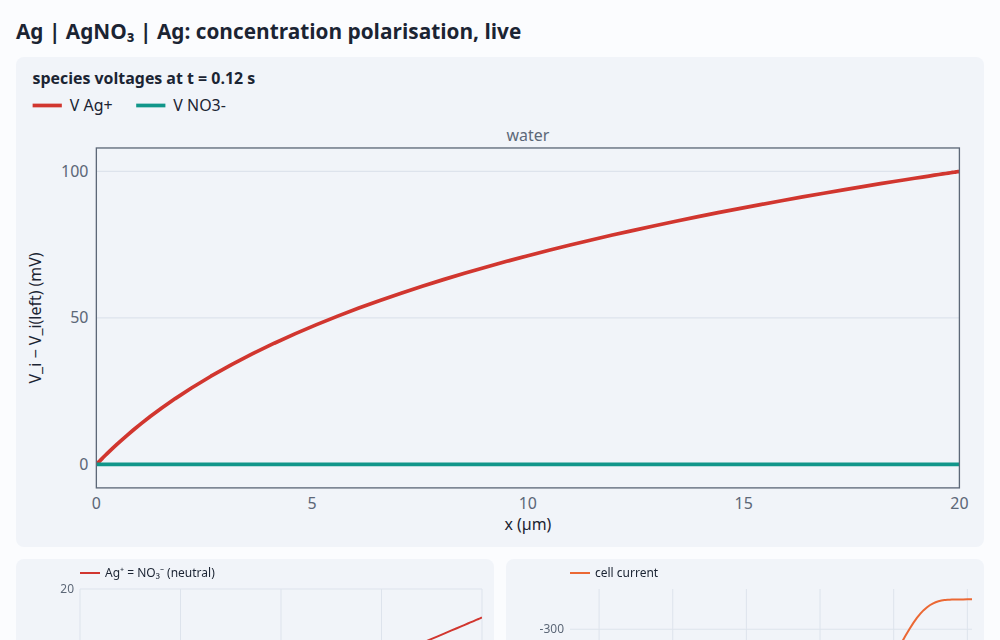
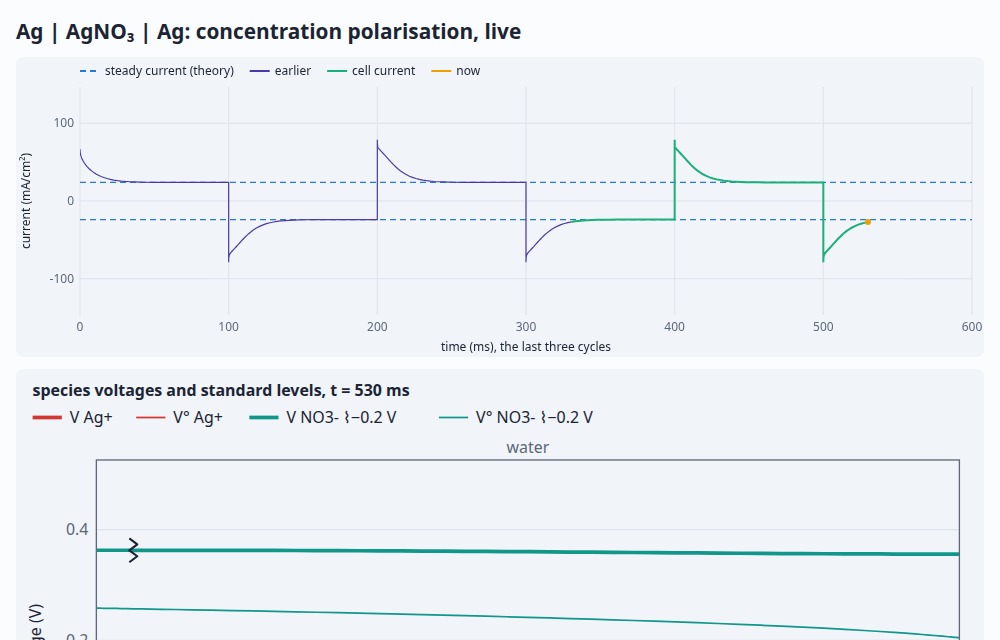
Concentration polarisation demo: a square wave that runs on, current and impedance against theory, an ionic diagram

diff --git a/demos/cell.html b/demos/cell.html
@@ -9,85 +9,150 @@
 <body>
 <main>
   <h1>Ag | AgNO₃ | Ag: concentration polarisation, live</h1>
-  <p>10 mM silver nitrate between two silver electrodes, 20 µm apart, as a strictly neutral electrolyte.
-    Ag⁺ is plated and stripped at the electrodes; NO₃⁻ is blocked. Step the cell voltage and watch the
-    salt pile up at one electrode and deplete at the other, and the current relax toward its steady value.
-    In the diagram, Ag⁺'s species voltage drops from one electrode to the other, while NO₃⁻'s, carrying no
-    current once it's settled, goes level. The impedance spectrum at rest is the bulk resistance plus a
-    finite-length Warburg arc from salt diffusion.</p>
+  <p>10 mM silver nitrate between two silver electrodes 20 µm apart, as a strictly neutral electrolyte, driven
+    by a square wave of cell voltage. Ag⁺ is plated at one electrode and stripped at the other; NO₃⁻ can't
+    cross either. So each reversal starts with a burst of current limited only by the solution's resistance;
+    then salt piles up at one electrode and depletes at the other, and the current sags toward its steady
+    value, (4FD₊c/L) tanh(FV/4RT) (dashed), which can never exceed the limiting current 4FD₊c/L. Half-periods
+    shorter than the diffusion time, (L/2)²/D ≈ 60 ms here, reverse the salt before it has piled up, and
+    the current stays near ohmic.</p>
+  <p>The diagram is ion by ion: each species' voltage V<sub>i</sub> = μ̄<sub>i</sub>/(z<sub>i</sub>F) (thick)
+    and standard level V°<sub>i</sub> (thin). Ag⁺'s voltage slopes from one electrode's to the other's, driving the current. NO₃⁻'s
+    is level once it settles, since nitrate carries no current; meanwhile its standard level is sloped, and
+    that slope is the salt's concentration gradient. The impedance spectrum at rest is the same physics in
+    frequency: the bulk resistance, then a finite-length Warburg arc from salt diffusion (theory dashed).</p>
   <div class="controls">
-    <label>cell voltage <input id="V" type="range" min="-0.2" max="0.2" step="0.01" value="0.1"><output id="Vout"></output></label>
-    <button id="step">apply step</button>
+    <label>cell voltage ± <input id="V" type="range" min="0.01" max="0.2" step="0.01" value="0.1"><output id="Vout"></output></label>
+    <label>half-period <input id="half" type="range" min="-3" max="0" step="0.25" value="-1"><output id="halfOut"></output></label>
+    <label>playback <select id="pace">
+      <option value="20">slow (20 s a cycle)</option>
+      <option value="6" selected>6 s a cycle</option>
+      <option value="0">as fast as it solves</option>
+    </select></label>
+    <button id="run">restart</button>
     <span class="readout" id="status"></span>
   </div>
   <div class="grid">
+    <canvas class="wide" id="current"></canvas>
     <div class="levels wide" id="levels"></div>
-    <canvas id="profile"></canvas>
-    <canvas id="current"></canvas>
-    <canvas id="nyquist"></canvas>
+    <div class="levels wide" id="conc"></div>
+    <canvas class="wide" id="nyquist"></canvas>
   </div>
 </main>
 <script type="module">
-import { Device } from '../src/index.js';
-import { build, layer, aqueous } from '../src/kit.js';
+import { Device, FARADAY, GAS_CONSTANT } from '../src/index.js';
+import { build, layer, aqueous, traces, IONS } from '../src/kit.js';
+import { levelChart } from '../src/plot.js';
 import { chart, colors } from './plot.js';
-import { relativeLevels, showCode, fromQuery, speciesColor } from './common.js';
+import { profiles, showCode, fromQuery } from './common.js';
 
 // A reversible silver electrode: a contact whose terminal species is the Ag⁺ it exchanges, so its
 // voltage is the electrode potential. NO₃⁻ can't cross it.
 const silver = (V) => ({ V, terminal: 'Ag+', species: { 'Ag+': 'equilibrium', 'NO3-': 'blocked' }, phi: 'bulk' });
+const L = 20e-6, c0 = 10; // m, mol/m³
 const def = build({
   library: [aqueous(['Ag+', 'NO3-'], { epsr: 0 })], // strictly neutral: no double layers
-  stack: [silver(0), layer('water', 20e-6, { c0: { 'NO3-': 10 } }), silver(0)], // Ag⁺ follows the electrodes
+  stack: [silver(0), layer('water', L, { c0: { 'NO3-': c0 } }), silver(0)], // Ag⁺ follows the electrodes
   grid: { hmin: 10e-9, hmax: 0.5e-6 }, // graded: fine at the electrodes, where Ag⁺ depletes
 });
 
-const slider = document.getElementById('V');
-fromQuery(slider);
-const show = () => (document.getElementById('Vout').textContent = `${(+slider.value).toFixed(2)} V`);
-slider.addEventListener('input', show);
-show();
+// Theory for a binary salt between electrodes reversible to its cation: the bulk resistance, the
+// steady current, and the finite-length Warburg impedance of salt diffusion.
+const RT = GAS_CONSTANT * 298.15, F = FARADAY, Dp = IONS['Ag+'].D, Dm = IONS['NO3-'].D;
+const Rb = (RT * L) / (F * F * (Dp + Dm) * c0); // Ω·m²
+const Rd = (RT * L * Dm) / (F * F * Dp * (Dp + Dm) * c0); // the diffusion arc's width
+const tauD = (L / 2) ** 2 / ((2 * Dp * Dm) / (Dp + Dm)); // s
+const steady = (V) => ((4 * F * Dp * c0) / L) * Math.tanh((F * V) / (4 * RT)); // A/m²
+const warburg = (f) => {
+  // Rb + Rd tanh(√(jωτ))/√(jωτ), with √(jωτ) = s(1 + j)
+  const s = Math.sqrt(Math.PI * f * tauD), den = Math.cosh(2 * s) + Math.cos(2 * s);
+  const tr = Math.sinh(2 * s) / den, ti = Math.sin(2 * s) / den;
+  return { re: Rb + (Rd * (tr + ti)) / (2 * s), im: (Rd * (ti - tr)) / (2 * s) };
+};
 
-// The impedance spectrum at rest, 10 mHz to 10 kHz.
-const freqs = Array.from({ length: 41 }, (_, k) => 10 ** (-2 + k * 0.15));
+// The impedance spectrum at rest, 10 mHz to 100 kHz, against theory.
+const freqs = Array.from({ length: 49 }, (_, k) => 10 ** (-2 + k * 0.15));
 const Z = new Device(def).impedance(freqs).Z;
-const ohmCm2 = (a) => Array.from(a, (v) => v * 1e4);
+const ohmCm2 = (v) => v * 1e4;
+const theory = freqs.map(warburg);
 chart(document.getElementById('nyquist'), {
-  xlabel: 'Z′ (Ω·cm²)', ylabel: '−Z″ (Ω·cm²)', xlim: [0, 3.6], ylim: [0, 1.2],
-  series: [{ x: ohmCm2(Z.re), y: ohmCm2(Z.im).map((v) => -v), color: colors[3], marker: true, label: 'impedance, 10 mHz – 10 kHz' }],
+  xlabel: 'Z′ (Ω·cm²)', ylabel: '−Z″ (Ω·cm²)', xlim: [0, 3.6], ylim: [0, 1],
+  series: [
+    { x: theory.map((z) => ohmCm2(z.re)), y: theory.map((z) => -ohmCm2(z.im)), color: colors[6], dash: [6, 4], label: 'theory: R_b + finite-length Warburg' },
+    { x: Array.from(Z.re, ohmCm2), y: Array.from(Z.im, (v) => -ohmCm2(v)), color: colors[2], marker: true, width: 0, label: 'impedance at rest, 10 mHz – 100 kHz' },
+  ],
 });
 
-// The step: from rest, then advance in time a little further each animation frame.
+const amp = document.getElementById('V'), halfS = document.getElementById('half');
+fromQuery(amp);
+fromQuery(halfS);
+const half = () => 10 ** +halfS.value; // s
+
 let dev, trace, running = false;
-const tEnd = 0.5, ahead = +new URLSearchParams(location.search).get('t'); // ?t=… jumps ahead
 function start() {
+  // From rest, a square wave: +V for a half-period, then −V, and so on.
+  const V = +amp.value, h = half();
   dev = new Device(def);
   dev.solve();
-  dev.set({ contacts: { right: { V: +slider.value } } });
-  trace = { t: [], I: [] };
-  if (ahead > 0) record(dev.advance(ahead));
+  dev.set({ contacts: { right: { V: { t: [0, h, h, 2 * h], values: [V, V, -V, -V], repeat: true } } } });
+  // It runs on, cycle after cycle (?t=… stops it there, for a screenshot), keeping the last three.
+  trace = { t: [], I: [], range: [Infinity, -Infinity], shift: Math.round((-0.35 + 1.5 * V) * 20) / 20, period: 2 * h, stop: +new URLSearchParams(location.search).get('t') || Infinity };
+  document.getElementById('Vout').textContent = `${V.toFixed(2)} V`;
+  document.getElementById('halfOut').textContent = h < 0.1 ? `${(h * 1000).toPrecision(2)} ms` : `${h.toPrecision(2)} s`;
+  lastFrame = undefined;
   if (!running) requestAnimationFrame(frame);
   running = true;
 }
-const record = (s) => s.trace.t.forEach((t, k) => (trace.t.push(t), trace.I.push(s.trace.current[k])));
-function frame() {
-  const target = Math.min(tEnd, Math.max(1e-6, dev.solver.time * 1.15)); // log time, roughly
-  const s = dev.advance(target, { budgetMs: 10 });
-  record(s);
-  relativeLevels(document.getElementById('levels'), s, { species: ['Ag+', 'NO3-'], title: `species voltages at t = ${s.time.toPrecision(2)} s` });
-  chart(document.getElementById('profile'), {
-    xscale: 1e6, xlabel: 'x (µm)', ylabel: 'concentration (mM)', ylim: [0, 20],
-    series: [{ x: s.x, y: s.c['Ag+'], color: speciesColor(s, 'Ag+'), label: 'Ag⁺ = NO₃⁻ (neutral)' }],
+
+// Playback: each cycle over a chosen wall-clock time; "as fast as it solves" advances as far as
+// 12 ms of computing allows each frame.
+const pace = document.getElementById('pace');
+let lastFrame;
+function frame(now = performance.now()) {
+  const wall = Math.min(0.1, (now - (lastFrame ?? now)) / 1000);
+  lastFrame = now;
+  const { period, stop } = trace, perCycle = +pace.value;
+  const target = stop < Infinity ? stop : dev.solver.time + (perCycle > 0 ? (wall * period) / perCycle : period);
+  const s = dev.advance(target, { budgetMs: 12, tol: 1e-3 });
+  s.trace.t.forEach((t, k) => {
+    trace.t.push(t);
+    trace.I.push(-s.trace.current[k] / 10); // from the right electrode to the left: mA/cm², positive for +V
   });
+  const keep = trace.t.findIndex((t) => t > s.time - 3 * period);
+  if (keep > 0) for (const key of ['t', 'I']) trace[key].splice(0, keep);
+  // Time within the cycle, the cycle under way drawn over the two before it.
+  const split = trace.t.findIndex((t) => t > s.time - period);
+  const base = Math.max(0, Math.floor(s.time / period) - 2) * period, phase = (t) => t - base;
+  const V = +amp.value, ms = 1000 * period;
+  const Iss = steady(V) / 10, Iohm = V / Rb / 10;
   chart(document.getElementById('current'), {
-    xlabel: 'log₁₀ t (s)', ylabel: 'current (A/m²)',
-    series: [{ x: trace.t.map(Math.log10), y: trace.I, color: colors[1], label: 'cell current' }],
+    xlabel: 'time (ms), the last three cycles', ylabel: 'current (mA/cm²)', xlim: [0, 3 * ms], ylim: [-1.1 * 2 * Iohm, 1.1 * 2 * Iohm],
+    series: [
+      { x: [0, 3 * ms, NaN, 0, 3 * ms], y: [Iss, Iss, NaN, -Iss, -Iss], color: colors[0], dash: [6, 4], width: 1.2, label: 'steady current (theory)' },
+      { x: trace.t.slice(0, split + 1).map((t) => 1000 * phase(t)), y: trace.I.slice(0, split + 1), color: colors[6], width: 1.2, label: 'earlier' },
+      { x: trace.t.slice(split).map((t) => 1000 * phase(t)), y: trace.I.slice(split), color: colors[2], label: 'cell current' },
+      { x: [1000 * phase(s.time)], y: [trace.I.at(-1) ?? 0], color: colors[3], marker: true, width: 0, label: 'now' },
+    ],
   });
-  document.getElementById('status').textContent = `t = ${s.time.toExponential(2)} s · ${trace.t.length} steps`;
-  if (s.time < tEnd) requestAnimationFrame(frame);
+  document.getElementById('status').textContent =
+    `cycle ${Math.floor(s.time / period) + 1} · V = ${s.terminals.right.V >= 0 ? '+' : '−'}${Math.abs(s.terminals.right.V).toFixed(2)} V · I = ${(trace.I.at(-1) ?? 0).toFixed(1)} mA/cm²`;
+  // The ionic view (ESBD). NO₃⁻ is drawn shifted (⌇) to sit just above Ag⁺, and the y range grows
+  // to hold what the run has shown, so it settles rather than jumping each frame.
+  const tr = traces(s, { shifts: { 'NO3-': trace.shift } });
+  for (const line of tr.series) for (const y of line.y) if (Number.isFinite(y)) trace.range = [Math.min(trace.range[0], y), Math.max(trace.range[1], y)];
+  const pad = 0.06 * (trace.range[1] - trace.range[0]);
+  document.getElementById('levels').innerHTML = levelChart(tr, {
+    width: 720, height: 380, range: [trace.range[0] - pad, trace.range[1] + pad],
+    title: `species voltages and standard levels, t = ${(1000 * s.time).toFixed(0)} ms`,
+  });
+  profiles(document.getElementById('conc'), s, {
+    species: ['Ag+'], labels: { 'Ag+': 'c Ag⁺ = c NO₃⁻ (neutral)' }, title: 'salt concentration', ylabel: 'concentration (mM)', range: [0, 20],
+  });
+  if (s.time < stop && s.converged) requestAnimationFrame(frame);
   else running = false;
 }
-document.getElementById('step').addEventListener('click', start);
+for (const el of [amp, halfS]) el.addEventListener('change', start);
+document.getElementById('run').addEventListener('click', start);
 start();
 showCode();
 </script>

diff --git a/demos/common.js b/demos/common.js
@@ -57,12 +57,26 @@ export function relativeLevels(el, sol, { species, title, labels = {} }) {
 }
 
 // Concentration profiles drawn like the level diagrams (same layout, x axis and species colours),
-// so they line up beneath them: levelChart() takes any lines as traces.
-export function profiles(el, sol, { species, title, ylabel = 'concentration (mol/m³)', range, xlim }) {
-  const series = species.map((name) => ({ id: `c:${name}`, label: `c ${name}`, kind: 'level', ...speciesRole(sol, name), y: sol.c[name] }));
+// so they line up beneath them: levelChart() takes any lines as traces. Each entry of `species` is
+// a name, or { name, c, label, kind } to draw some other profile in that species' colour (kind
+// 'standard' draws it thin). `scale` converts units; `log` draws log₁₀, with powers of ten.
+export function profiles(el, sol, { species, title, ylabel = 'concentration (mol/m³)', range, xlim, scale = 1, log = false, labels = {}, height = 300 }) {
+  const f = log ? (c) => (c > 0 ? Math.log10(c * scale) : NaN) : (c) => c * scale;
+  const series = species.map((entry) => {
+    const { name, c = sol.c[name], label = labels[name] ?? `c ${name}`, kind = 'level' } = typeof entry === 'string' ? { name: entry } : entry;
+    return { id: `c:${name}:${label}`, label, kind, ...speciesRole(sol, name), y: Array.from(c, f) };
+  });
+  if (!range) {
+    const [xs, xe] = xlim ?? [sol.x[0], sol.x.at(-1)];
+    const shown = series.flatMap((s) => s.y.filter((v, g) => Number.isFinite(v) && sol.x[g] >= xs && sol.x[g] <= xe));
+    const lo = Math.min(...shown), hi = Math.max(...shown);
+    range = log ? [Math.floor(lo - 0.2), Math.ceil(hi + 0.2)] : [Math.min(0, lo), 1.08 * hi || 1];
+  }
   const tr = { x: sol.x, series, regions: sol.regions, faces: sol.regions.slice(1).map((r) => r.x0), range };
-  el.innerHTML = levelChart(tr, { width: 720, height: 300, title, ylabel, range, xlim });
+  el.innerHTML = levelChart(tr, { width: 720, height, title, ylabel, range, xlim, ytick: log ? powerOfTen : undefined });
 }
+const superscript = (n) => String(n).replace(/[-0-9]/g, (d) => '⁻⁰¹²³⁴⁵⁶⁷⁸⁹'['-0123456789'.indexOf(d)]);
+const powerOfTen = (v) => (Number.isInteger(v) ? `10${superscript(v)}` : '');
 
 // A slider's value from the URL (?V=0.4), for sharing a state or taking a screenshot.
 export function fromQuery(input) {

diff --git a/demos/index.html b/demos/index.html
@@ -24,7 +24,7 @@
   <div class="cards">
     <a class="card" href="redox.html"><img src="screenshots/redox.png" alt="cyclic voltammetry"><div><b>Cyclic voltammetry</b><span>Fe³⁺/Fe²⁺ at platinum: the Fermi level against the couple's redox level, Butler–Volmer kinetics and diffusion.</span></div></a>
     <a class="card" href="daniell.html"><img src="screenshots/daniell.png" alt="Daniell cell"><div><b>Daniell cell</b><span>Zn | Zn²⁺ ‖ Cu²⁺ | Cu discharging through a load, and where its voltage goes.</span></div></a>
-    <a class="card" href="cell.html"><img src="screenshots/cell.png" alt="concentration polarisation"><div><b>Concentration polarisation</b><span>Ag | AgNO₃ | Ag after a voltage step, live; the impedance spectrum.</span></div></a>
+    <a class="card" href="cell.html"><img src="screenshots/cell.png" alt="concentration polarisation"><div><b>Concentration polarisation</b><span>Ag | AgNO₃ | Ag under a square wave: the salt piling up and reversing, live; the impedance against theory.</span></div></a>
   </div>
 
   <h2>Interfaces and materials</h2>
